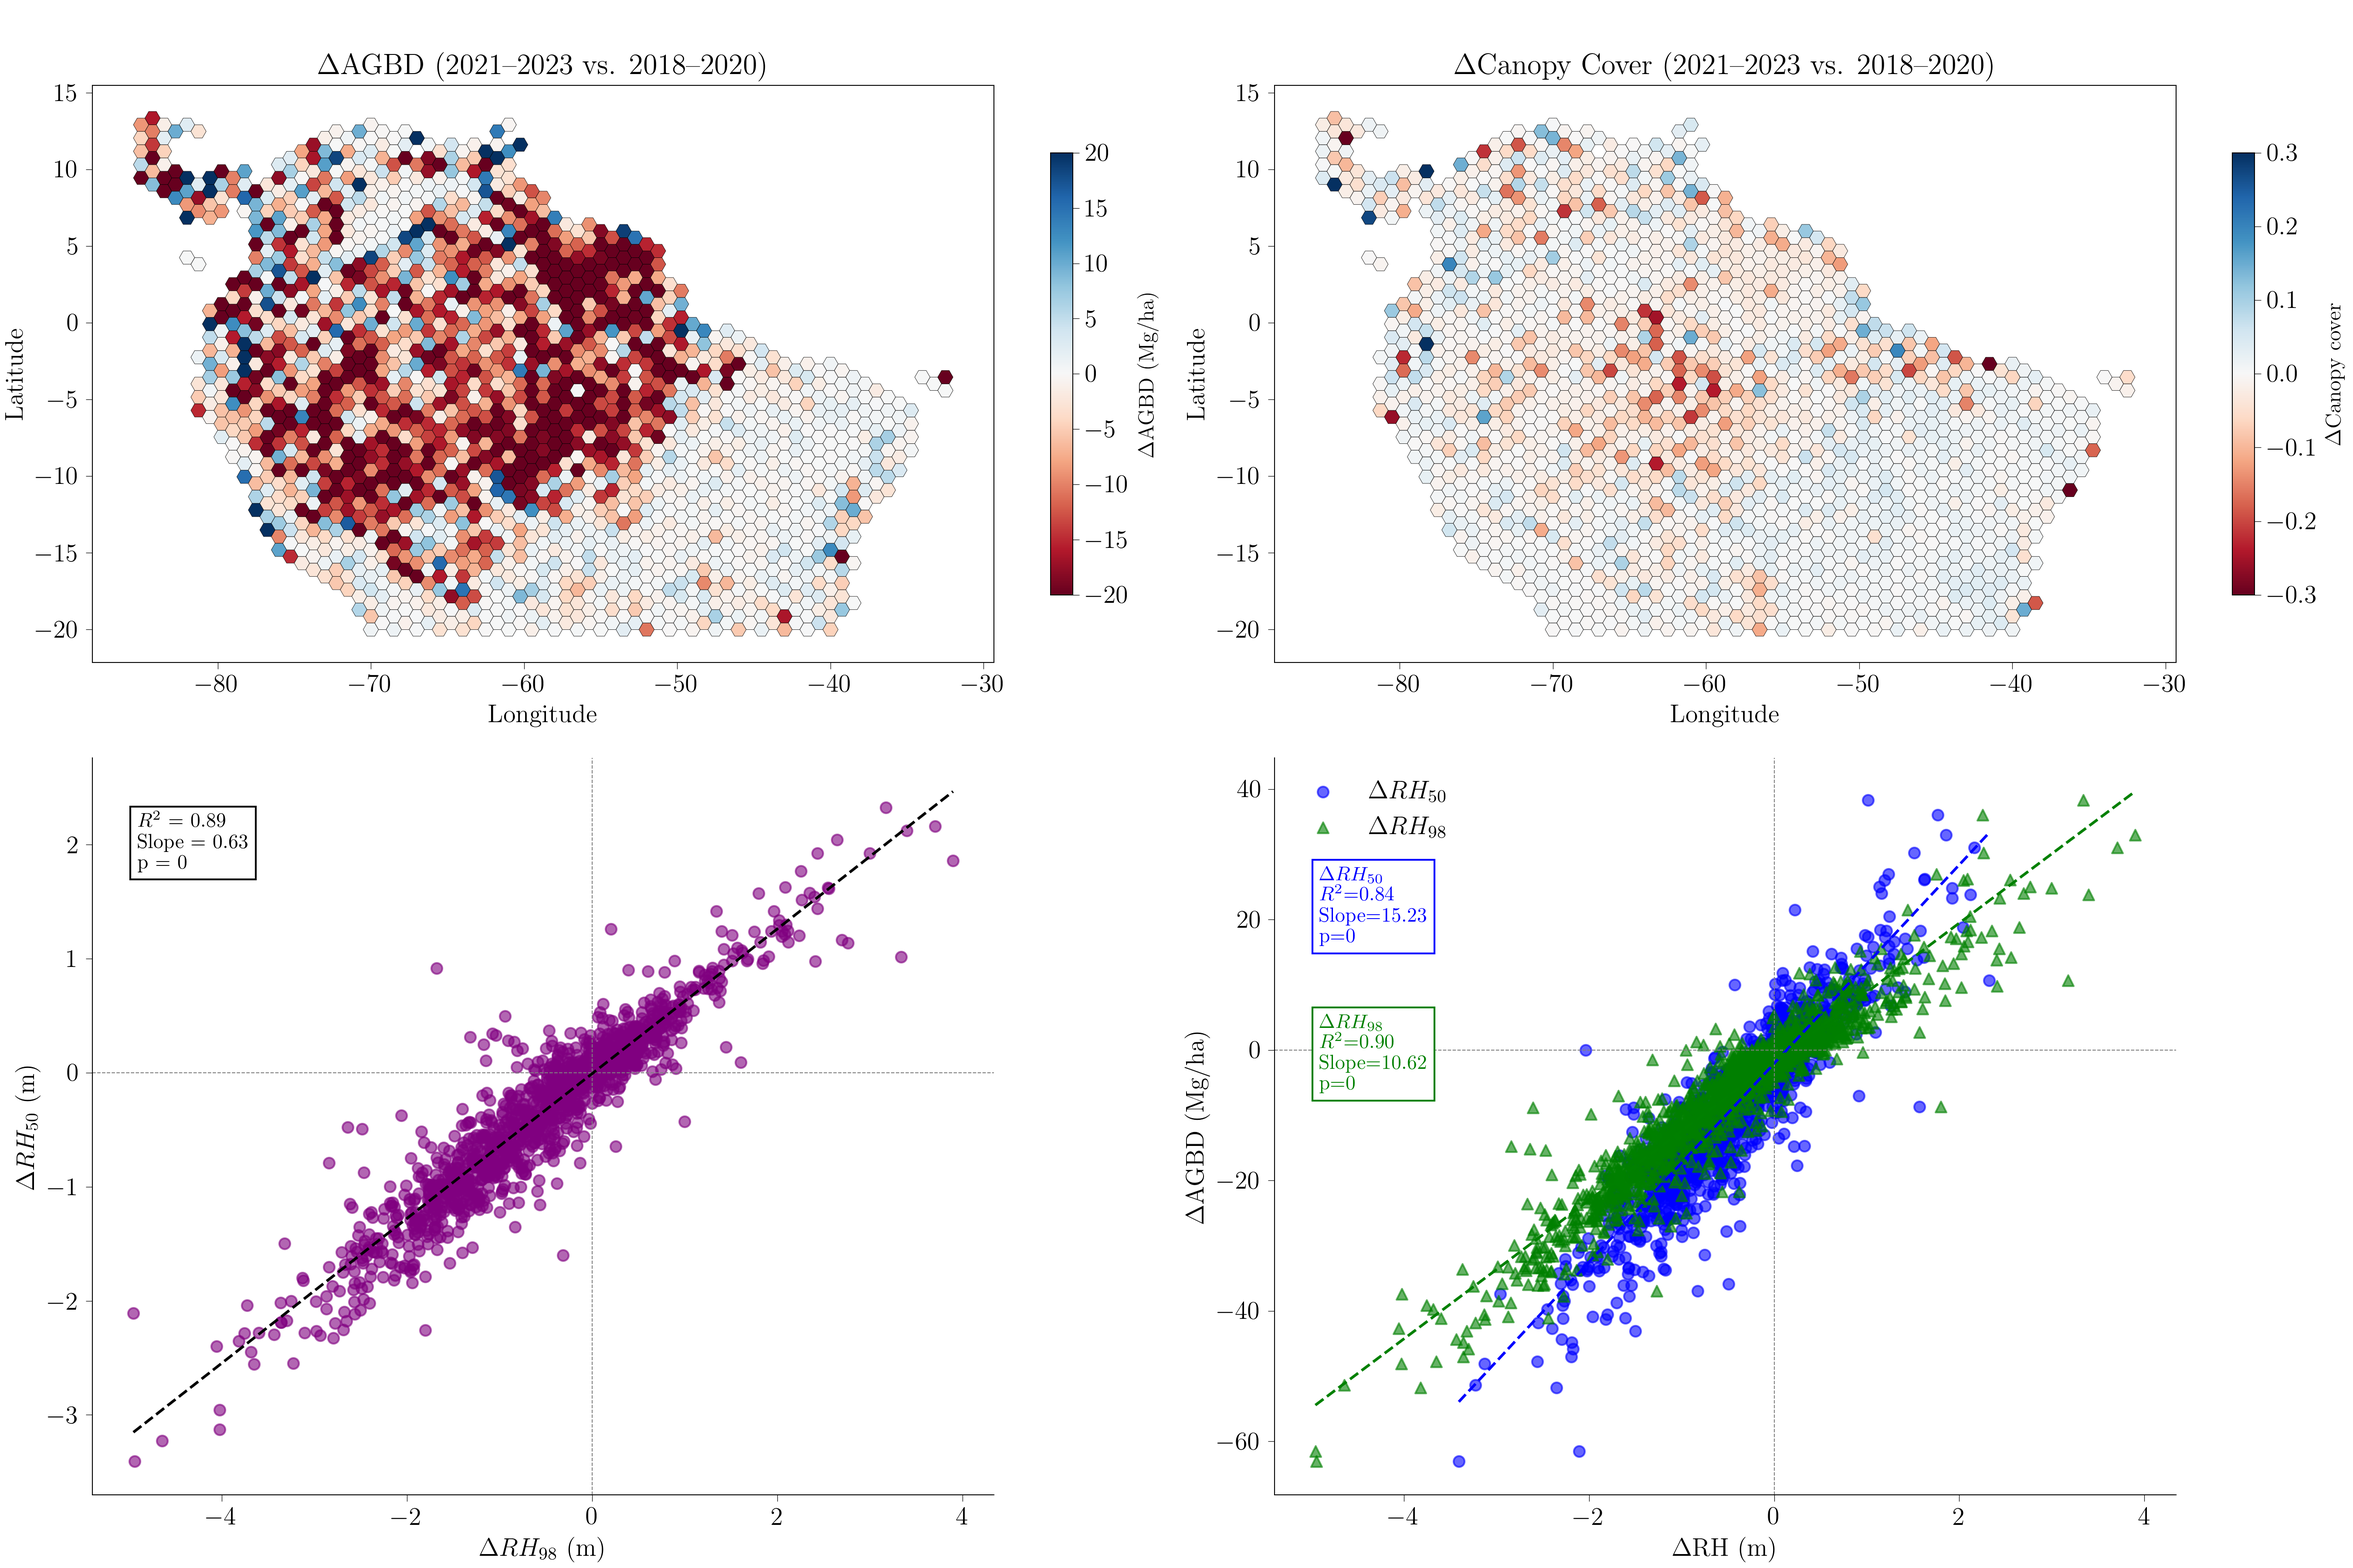
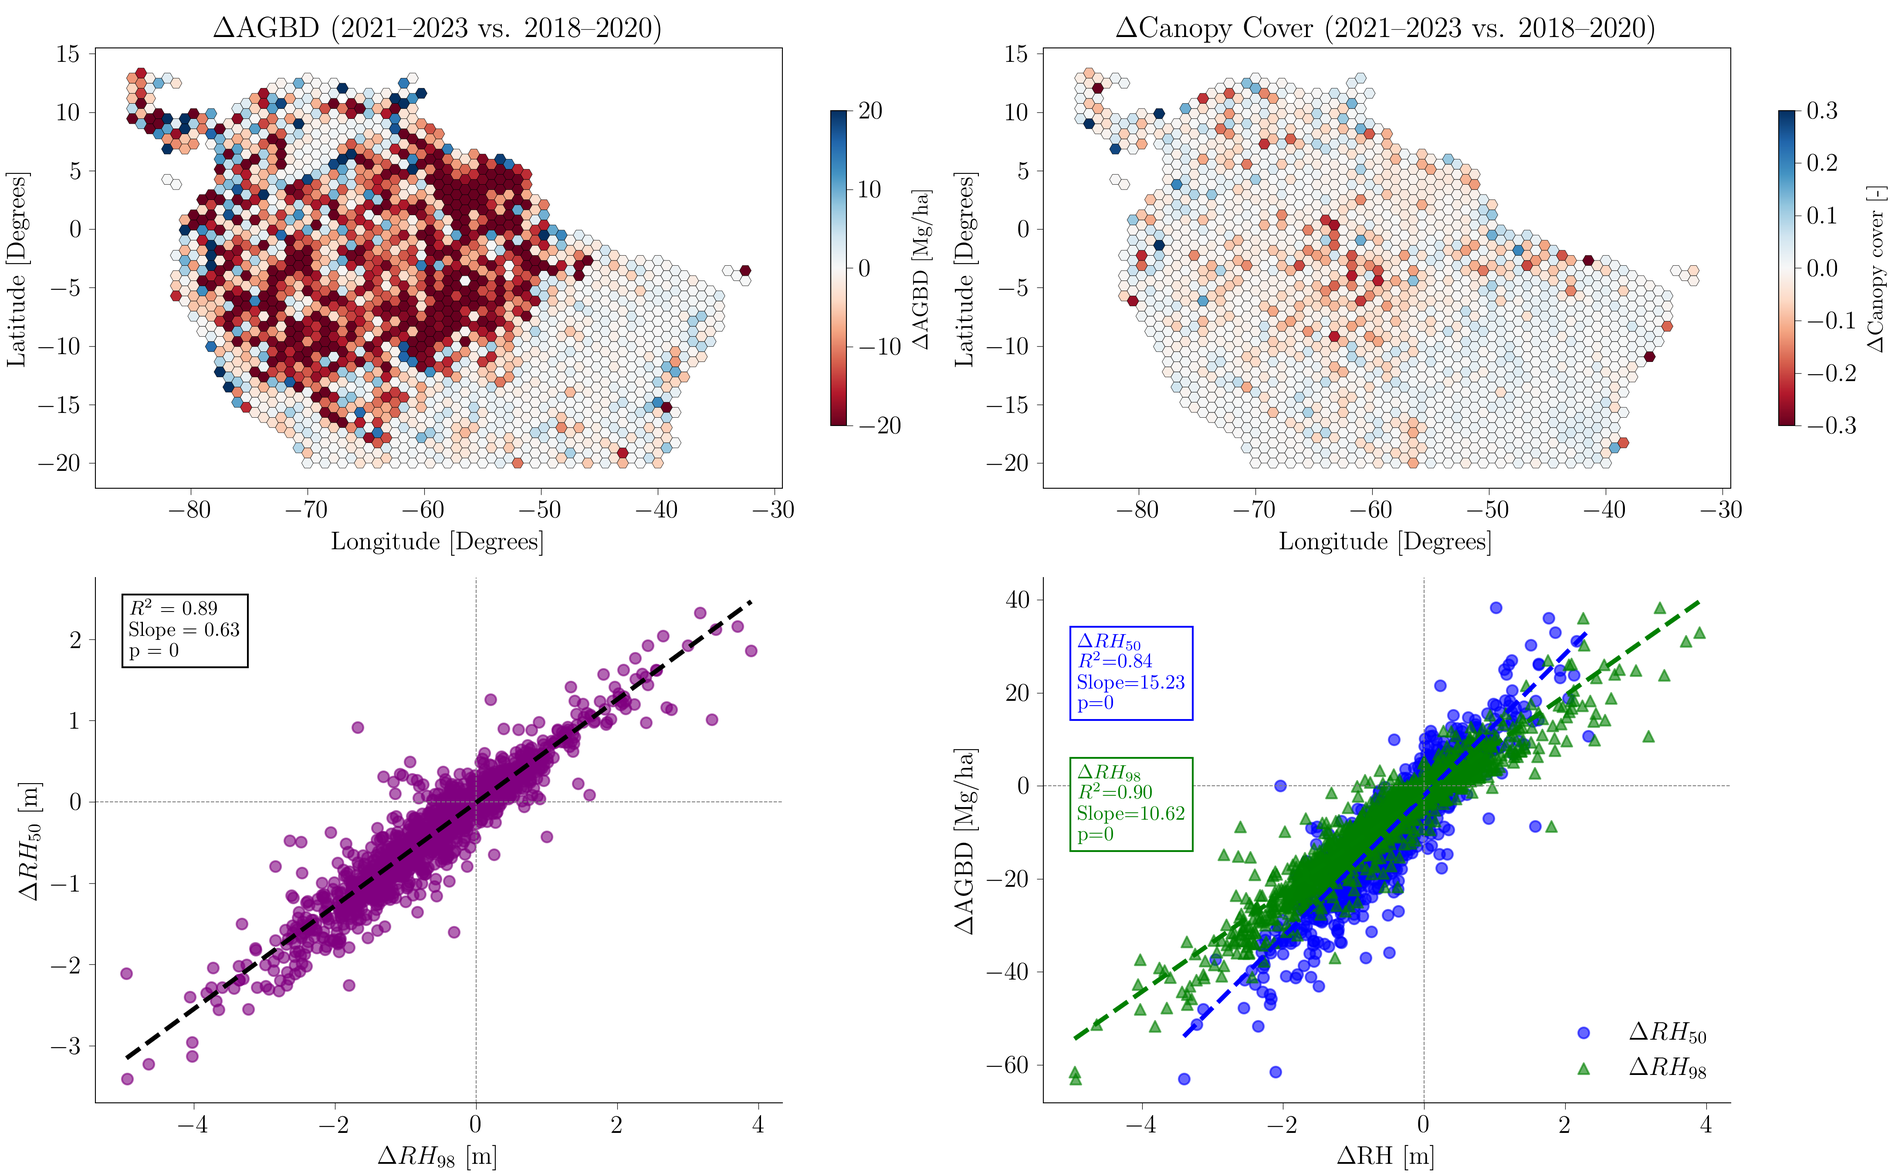
update paper workflow and paper content

diff --git a/paper/paper.md b/paper/paper.md
@@ -107,7 +107,7 @@ Benchmarks were conducted on a Linux server equipped with dual Intel® Xeon® E5
 
 # Example use cases
 
-An illustrative use case involved the analysis of aboveground biomass and canopy cover dynamics across the Amazon Basin ([Fig. 4](#fig4)). Leveraging `gediDB`, variables representing aboveground biomass, canopy cover, and vertical canopy structure (i.e., relative height (RH) metrics) were efficiently extracted over large spatial extents and multiple years. The data were aggregated within a 1°×1° hexagonal grid framework, enabling spatiotemporal analysis of forest structure change. Integration with Python’s geospatial libraries, such as `geopandas` and `xarray`, allowed for a fully reproducible workflow from data extraction to visualization. To explore structural drivers of biomass change, a scatter plot analysis compared changes in upper and lower canopy height metrics (ΔRH98 and ΔRH50) with ΔAGBD. This illustrated the nuanced relationships between vertical canopy dynamics and biomass accumulation or loss across forested ecosystems.
+An illustrative use case involved the analysis of aboveground biomass and canopy cover dynamics across the Amazon Basin ([Fig. 4](#fig4)). Leveraging `gediDB`, variables representing aboveground biomass, canopy cover, and vertical canopy structure (i.e., relative height (RH) metrics) were efficiently extracted over large spatial extents and multiple years. The data were aggregated within a 1°×1° hexagonal grid framework, enabling spatiotemporal analysis of forest structure change. Integration with Python’s geospatial libraries, such as `geopandas` and `xarray`, allowed for a fully reproducible workflow from data extraction to visualization. To explore structural drivers of biomass change, a scatter plot analysis compared changes in upper and lower canopy height metrics (ΔRH98 and ΔRH50) with ΔAGBD. This illustrated the nuanced relationships between vertical canopy dynamics and biomass accumulation or loss across forested ecosystems. The greater slope observed between changes in median canopy height (ΔRH50) and aboveground biomass density (ΔAGBD), compared to changes in upper canopy height (ΔRH98) (lower right panel), indicates that biomass dynamics are more closely linked to widespread structural adjustments across the lower and mid-canopy layers rather than to changes restricted to the tallest forest emergents.
 
 ![<a name="fig4"></a>Changes in aboveground biomass and canopy cover across the Amazon Basin](figs/amazon_changes.png)
 *Fig. 4: Visualisation of changes in aboveground biomass density (AGBD) (top left panel) and canopy cover (top right panel) between 2018–2020 and 2021–2023, aggregated to a 1°×1° hexagonal grid over the Amazon Basin. The bottom left panel shows the relationship between changes in ΔRH50 and ΔRH98, with each point representing a hexagon. The bottom right panel shows the relationship between changes in canopy height metrics (ΔRH50 and ΔRH98) and ΔAGBD, with each point representing a hexagon. This highlights how vertical canopy structure dynamics relate to biomass change across the region.*
